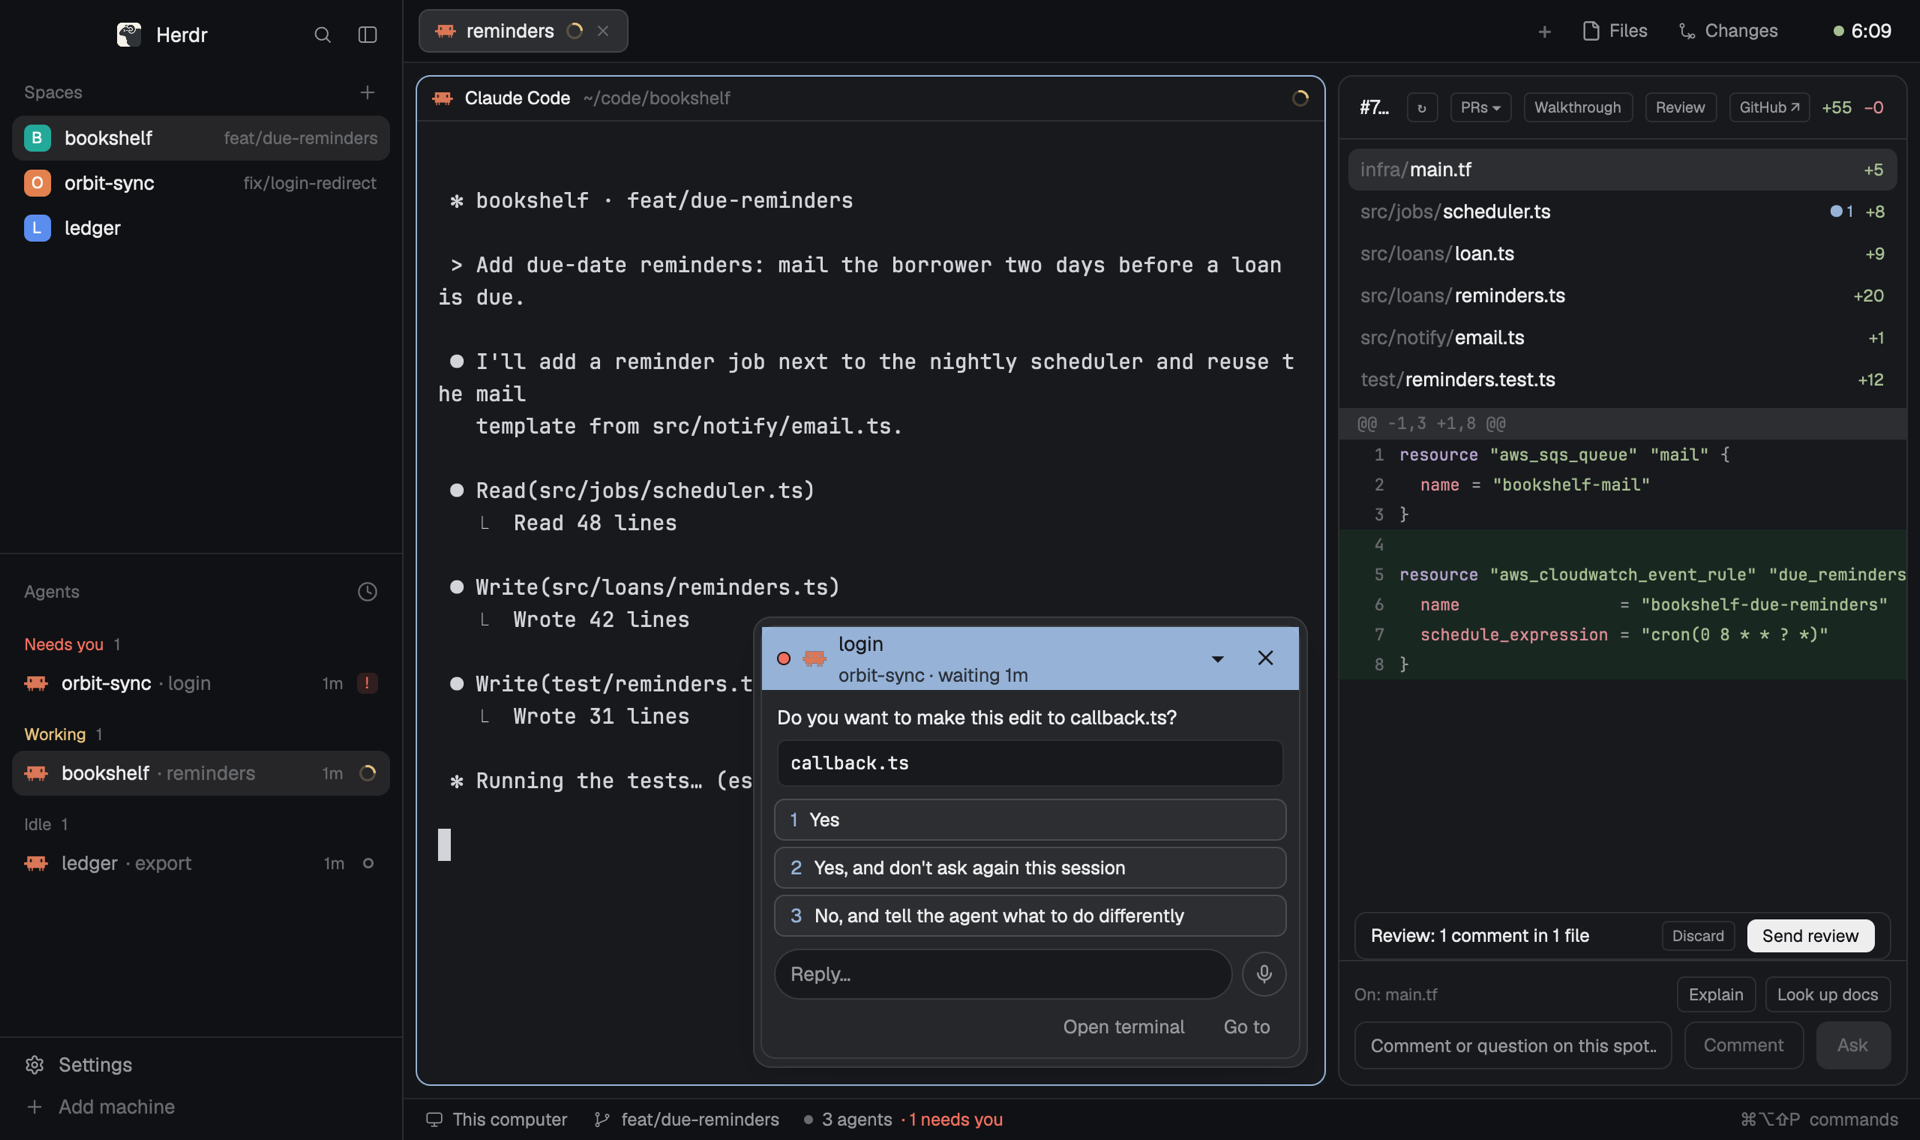
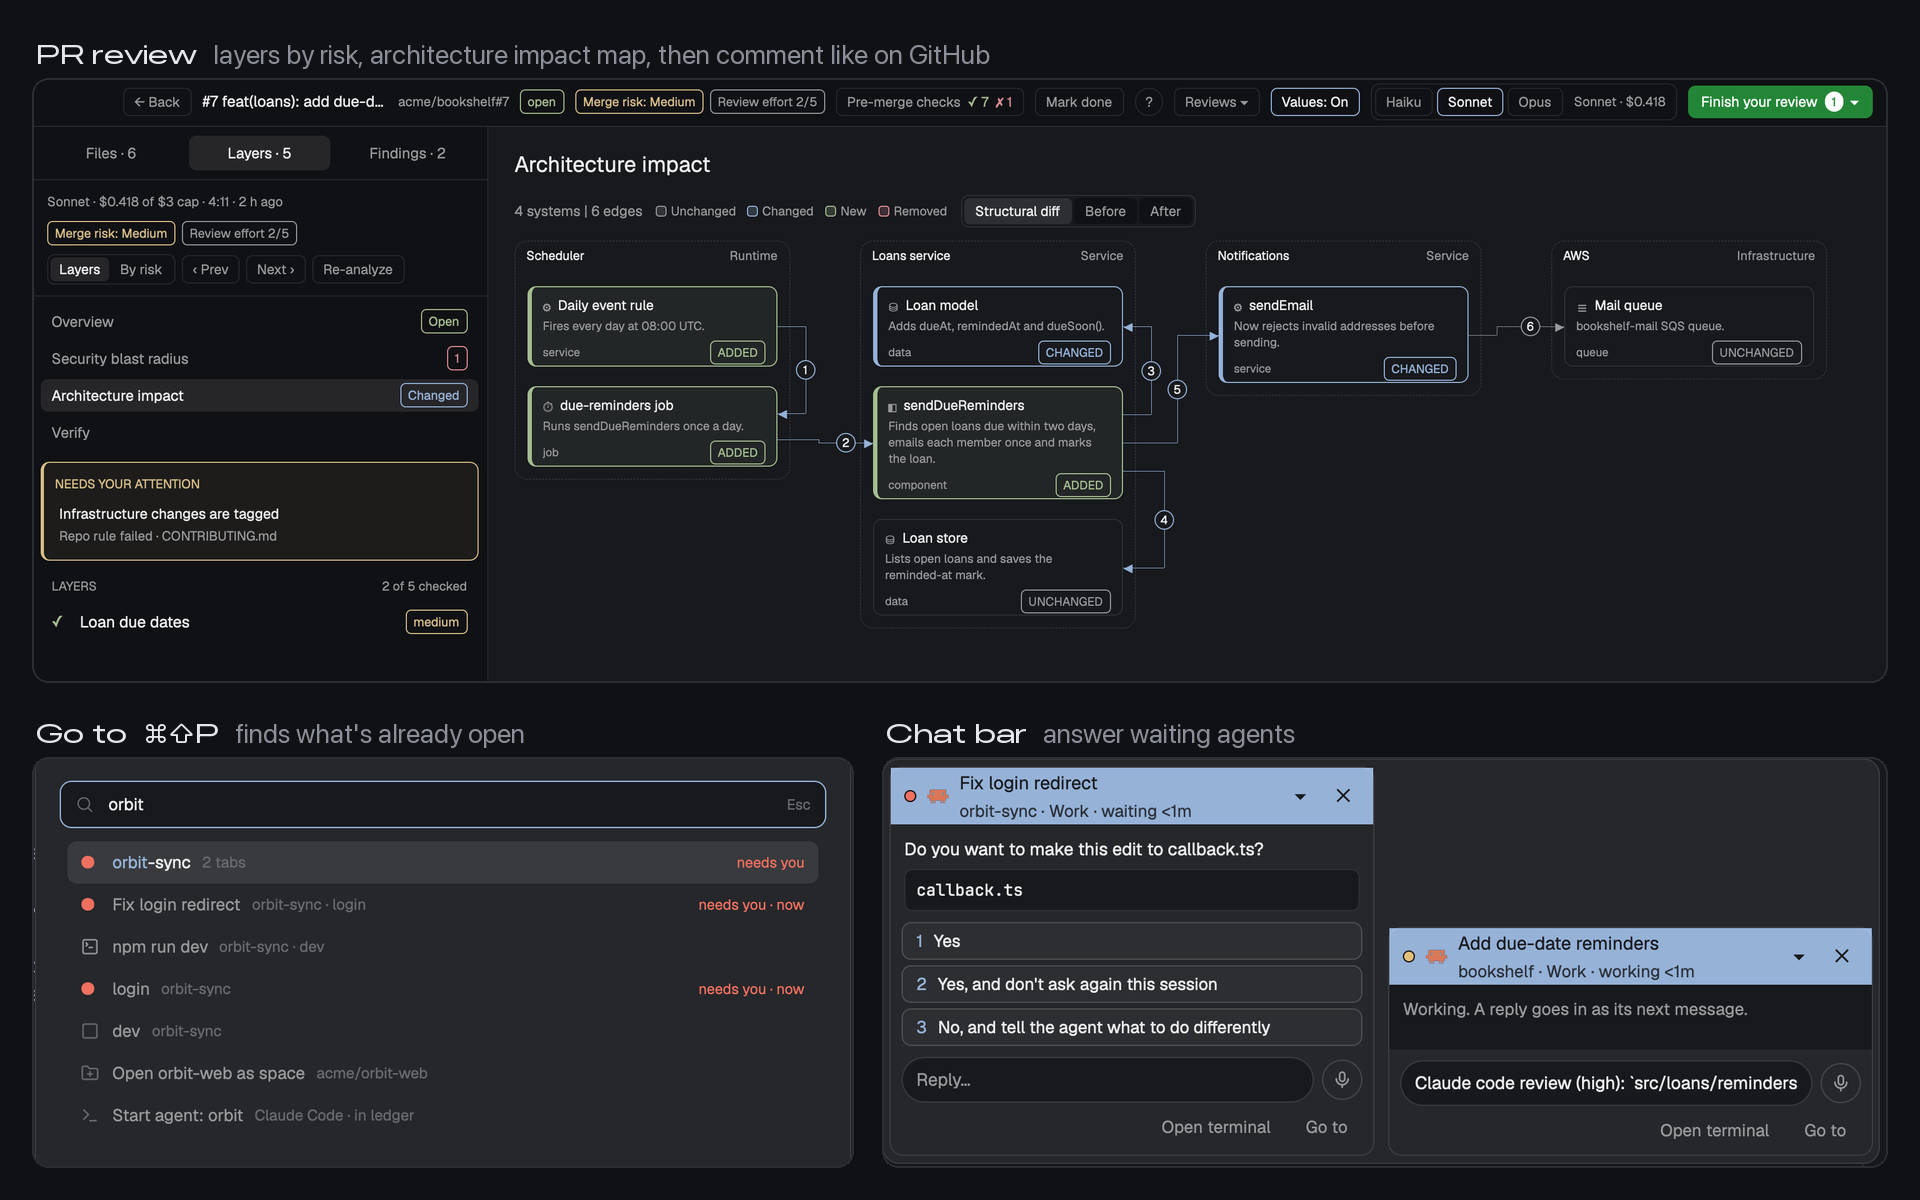
docs: a fuller gallery card

diff --git a/README.md b/README.md
@@ -2,9 +2,9 @@
 
 <h3 align="center">Five Herdr mods that work alone and click together when you install more than one</h3>
 
-<p align="center">Corgi is a small set of mods for the <a href="https://herdr.dev">Herdr app</a>: a ⌘⇧P box that finds what you already have open, a pull request review, a chat bar for agents that wait on you, a work time tracker and dictation. Each one lives in its own repo and works without the others. Install two and they find each other on their own. The <code>corgi</code> command installs any of them, keeps your own edits through updates, and can roll back.</p>
+<p align="center">One <a href="https://herdr.dev">Herdr</a> window for coding agents, with pull request review the way you'd want it: the change as layers ordered by risk, an architecture map, a security blast radius, state diagrams and sample values in the diff, then GitHub-style comments. Find anything already open with ⌘⇧P, answer waiting agents from a chat bar, dictate, and track your work time. Each part is a mod that works alone; Corgi updates them safely and keeps your edits.</p>
 
-<p align="center"><img src="docs/previews/goto.png" width="88%" alt="Go to: a search box over Herdr that found an agent by a few words of its task" /></p>
+<p align="center"><img src="preview.png" width="88%" alt="Corgi: the PR review's architecture impact map, the Go to box finding what's open, and chat bubbles of agents waiting on you" /></p>
 
 <p align="center"><sub>✓&nbsp;Free,&nbsp;MIT&nbsp;licensed &nbsp; ✓&nbsp;Runs&nbsp;locally &nbsp; ✓&nbsp;herdr-app&nbsp;0.1.14+</sub></p>
 
@@ -23,40 +23,15 @@
 `enable` asks before it adds shortcuts to your `keys.json`. With `--all` it never touches `keys.json` unless you add
 `--keys=merge`; otherwise it prints the shortcuts for you to add by hand. A key you already use is never rebound.
 
-## The mods
+## What's inside
 
-### Go to
-
-A ⌘⇧P box that finds what is already open before it opens anything new: agents by a few words of their task, spaces,
-repos, pull requests, URLs and Herdr's own commands. The other mods add their rows to it.
-[herdr-corgi-goto](https://github.com/saefty/herdr-corgi-goto)
-
-### PR review
-
-A side panel with the focused branch's diff and a full review layout: an AI walkthrough by risk and layer, reviewer
-agents whose findings you send back to the agent that wrote the code, and comments posted as one GitHub review.
-[herdr-corgi-pr-review](https://github.com/saefty/herdr-corgi-pr-review)
-
-<p align="center"><img src="docs/previews/pr-review.png" width="88%" alt="The review layout's overview of a demo pull request" /></p>
-
-### Chat bar
-
-One bubble per agent that waits on you, in the corner of every layout. Read the question, press an option or type a
-reply, and stay where you are. [herdr-corgi-chatbar](https://github.com/saefty/herdr-corgi-chatbar)
-
-<p align="center"><img src="docs/previews/chatbar.png" width="88%" alt="The chat bar with an agent asking for permission" /></p>
-
-### Time tracker
-
-A chip that counts your work time today while you are at the keyboard, in Herdr, in your work apps or while your
-agents run. Every day lands in an Excel workbook. [herdr-corgi-timetrack](https://github.com/saefty/herdr-corgi-timetrack)
-
-<p align="center"><img src="docs/previews/timetrack.png" width="60%" alt="The time tracker's popup with today's timeline" /></p>
-
-### Dictate
-
-Press a key, speak, press it again: the text is transcribed on your Mac and lands where your cursor is, never sent.
-macOS on Apple Silicon. [herdr-corgi-dictate](https://github.com/saefty/herdr-corgi-dictate)
+| | |
+|---|---|
+| <img src="docs/previews/pr-review.png" width="240" alt="PR review" /> | **[PR review](https://github.com/saefty/herdr-corgi-pr-review)**: a side panel with the branch's diff and a full-window review: layers by risk, an architecture impact map, a security blast radius, sample values in the diff, reviewer agents whose findings you send back to fix and verify, and comments posted as one GitHub review. |
+| <img src="docs/previews/goto.png" width="240" alt="Go to" /> | **[Go to](https://github.com/saefty/herdr-corgi-goto)**: a ⌘⇧P box that finds what is already open before it opens anything new: agents by a few words of their task, spaces, repos, PRs, URLs and Herdr's commands. |
+| <img src="docs/previews/chatbar.png" width="240" alt="Chat bar" /> | **[Chat bar](https://github.com/saefty/herdr-corgi-chatbar)**: one bubble per agent that waits on you. Read the question, press an option or type a reply, and stay where you are. |
+| <img src="docs/screenshots/interplay-dictate.png" width="240" alt="Dictate" /> | **[Dictate](https://github.com/saefty/herdr-corgi-dictate)**: press a key, speak, press it again; the text is transcribed on your Mac and lands where your cursor is, never sent. macOS on Apple Silicon. |
+| <img src="docs/previews/timetrack.png" width="240" alt="Time tracker" /> | **[Time tracker](https://github.com/saefty/herdr-corgi-timetrack)**: a chip that counts today's work time while you or your agents work, and writes every day to an Excel workbook. |
 
 ## Better together
 
@@ -86,8 +61,6 @@ Read ~/.config/herdr-app/AGENTS.md, clone https://github.com/saefty/herdr-corgi,
 
 Want the whole window at once? The Corgi layout puts Herdr's sidebar and tab bar together with the time chip in the
 tab row, the PR panel on the right, and the chat bar and dictation over your terminals.
-
-<p align="center"><img src="preview.png" width="88%" alt="The Corgi layout with a demo PR, a working agent and a chat bubble" /></p>
 
 Give your agent this, in a Herdr terminal:
 

diff --git a/RECIPE.md b/RECIPE.md
@@ -1,6 +1,6 @@
 # Corgi
 
-One Herdr window for working with coding agents. Find anything already open, answer agents from a chat bar, review PRs with an AI walkthrough, dictate replies and track your work time.
+One Herdr window for coding agents, with pull request review the way you'd want it: the change as layers ordered by risk, an architecture map, a security blast radius, state diagrams and sample values in the diff, then GitHub-style comments. Find anything already open with ⌘⇧P, answer waiting agents from a chat bar, dictate, and track your work time. Each part is a mod that works alone; Corgi updates them safely and keeps your edits.
 
 ![Corgi](preview.png)
 
